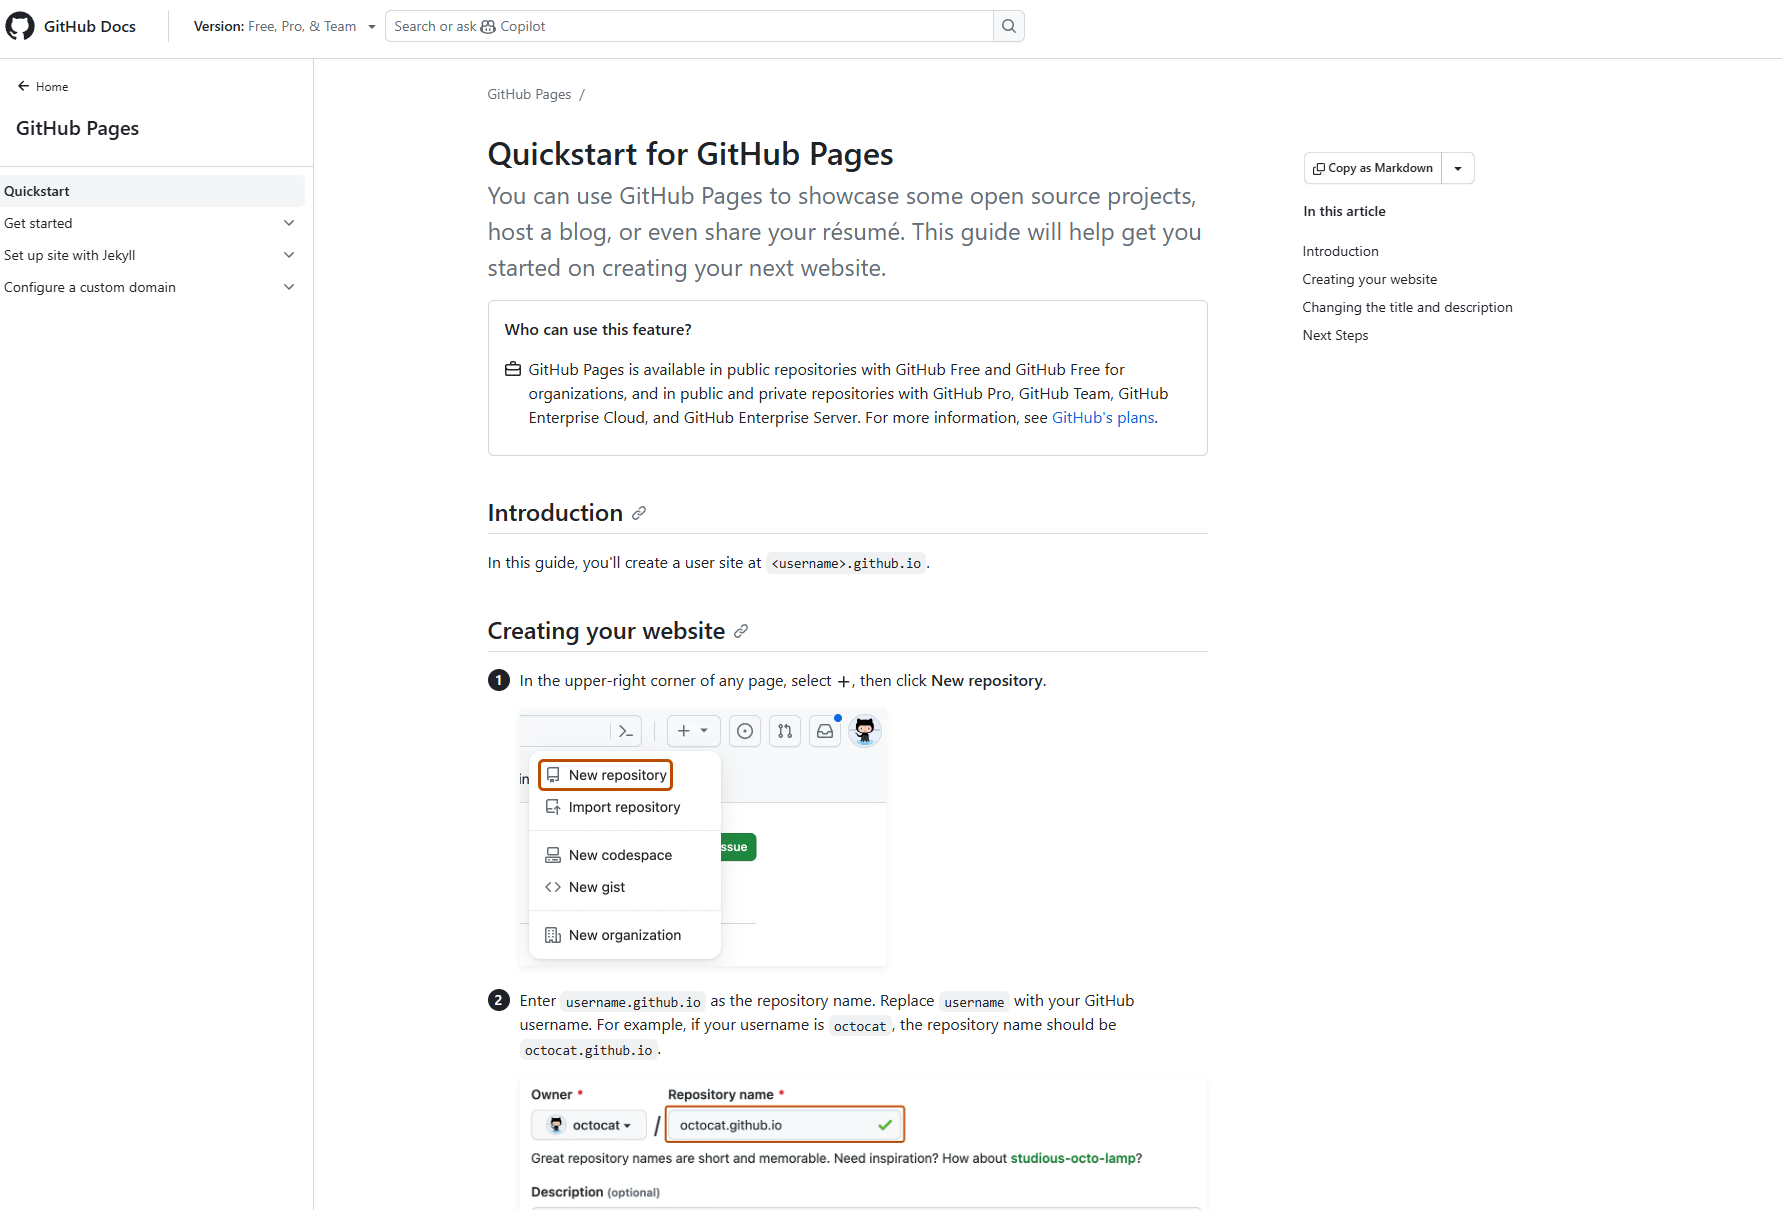
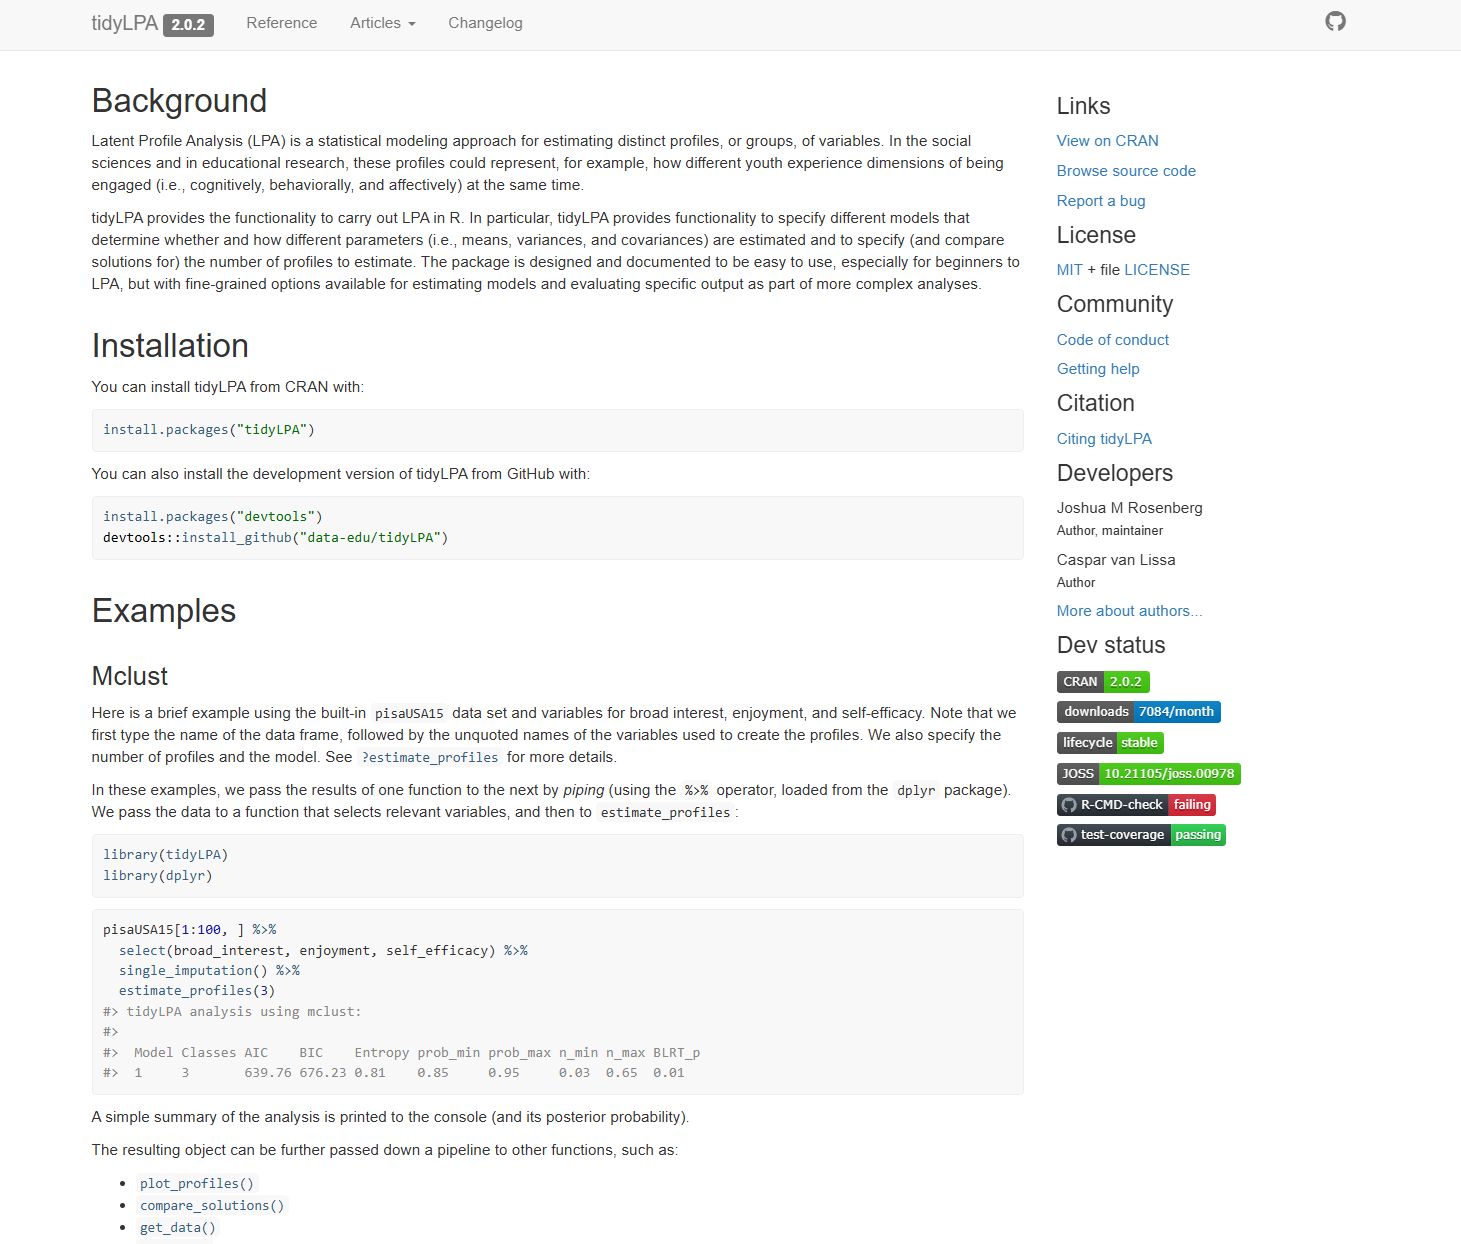
Harmonize chapter 7 tone, refine terminology, and update chapter 9 publishing example

diff --git a/docs/chapter-9.html b/docs/chapter-9.html
@@ -673,12 +673,13 @@ genai-policy-analysis/
 </section>
 <section id="publishing-and-sharing" class="level3">
 <h3 class="anchored" data-anchor-id="publishing-and-sharing">9.4.7 Publishing and Sharing</h3>
-<p>Once rendered, the Quarto project can be published via GitHub Pages by hosting the repository on GitHub (https://github.com/). This process produces a stable, shareable URL that can be cited in manuscripts, course syllabi, or presentations.</p>
-<p>Examples of publicly available Quarto projects can be found at:</p>
-<p>https://quarto.org/examples/</p>
+<p>To make this concrete, we use the public <code>data-edu/tidyLPA</code> repository as an example communication workflow <span class="citation" data-cites="Rosenberg2018tidyLPA">(<a href="#ref-Rosenberg2018tidyLPA" role="doc-biblioref">Rosenberg et al. 2018</a>)</span>:</p>
+<p><a href="https://github.com/data-edu/tidyLPA" class="uri">https://github.com/data-edu/tidyLPA</a></p>
+<p>In this workflow, the <strong>source layer</strong> is the GitHub repository (Quarto files, scripts, commit history, documentation), and the <strong>public layer</strong> is the rendered GitHub Pages site. Together, these two layers provide a stable, citable, and transparent communication artifact for computational educational research.</p>
+<p><a href="https://data-edu.github.io/tidyLPA" class="uri">https://data-edu.github.io/tidyLPA</a></p>
 <p><img src="data/ch9_images/github repo codes.png" class="img-fluid"></p>
 <p><img src="data/ch9_images/github page.png" class="img-fluid"></p>
-<p><em>Example of source repository and published GitHub Pages output.</em></p>
+<p><em>Example of the <code>data-edu/tidyLPA</code> source repository and its published GitHub Pages output.</em></p>
 </section>
 <section id="why-this-format-matters" class="level3">
 <h3 class="anchored" data-anchor-id="why-this-format-matters">9.4.8 Why This Format Matters</h3>
@@ -733,6 +734,9 @@ Gopen, George D., and Judith A. Swan. 1990. <span>“The Science of Scientific W
 </div>
 <div id="ref-Nosek2015OpenScience" class="csl-entry" role="listitem">
 Nosek, Brian A., George Alter, George C. Banks, et al. 2015. <span>“Promoting an Open Research Culture.”</span> <em>Science</em> 348 (6242): 1422–25.
+</div>
+<div id="ref-Rosenberg2018tidyLPA" class="csl-entry" role="listitem">
+Rosenberg, Joshua M., Patrick N. Beymer, Daniel J. Anderson, Caspar J. van Lissa, and Jennifer A. Schmidt. 2018. <span>“tidyLPA: An <span>R</span> Package to Easily Carry Out Latent Profile Analysis (<span>LPA</span>) Using Open-Source or Commercial Software.”</span> <em>Journal of Open Source Software</em> 3 (30): 978. <a href="https://doi.org/10.21105/joss.00978">https://doi.org/10.21105/joss.00978</a>.
 </div>
 <div id="ref-Wilke2019DataViz" class="csl-entry" role="listitem">
 Wilke, Claus O. 2019. <em>Fundamentals of Data Visualization</em>. O’Reilly Media. <a href="https://clauswilke.com/dataviz/">https://clauswilke.com/dataviz/</a>.

diff --git a/docs/chapter-1-1.html b/docs/chapter-1-1.html
@@ -494,7 +494,7 @@ pre > code.sourceCode > span > a:first-child::before { text-decoration: underlin
 <p>You need an environment for writing and running R code. We’re going to focus on <strong>Positron</strong>, Posit’s newer IDE built on the foundation of VS Code. If you’re already comfortable with RStudio, everything in this chapter applies there too. The fundamental concepts are identical, and the R code in this book works the same way in both.</p>
 <section id="why-positron" class="level2">
 <h2 class="anchored" data-anchor-id="why-positron">Why Positron?</h2>
-<p>Positron represents where computational social science workflows are heading: multi-language support (R and Python in the same environment), modern editor features inherited from VS Code, and a more extensible architecture (i.e., plugins and extension). If you’re coming from VS Code, Positron will feel immediately familiar. If you’re new to both, you’re learning a tool that’s designed for the future of data science.</p>
+<p>Positron represents where computational educational research workflows are heading: multi-language support (R and Python in the same environment), modern editor features inherited from VS Code, and a more extensible architecture (i.e., plugins and extension). If you’re coming from VS Code, Positron will feel immediately familiar. If you’re new to both, you’re learning a tool that’s designed for the future of data science.</p>
 <p>That said, <strong>RStudio remains great</strong>. It’s mature, widely documented, and has a loyal community. Some researchers prefer its more opinionated interface. Everything you need is visible and organized for R-first workflows. If you’re already using RStudio and prefer it, nothing in this book requires switching.</p>
 <p>The instructions below work in both environments unless otherwise noted. When we say “Positron,” assume the same applies to RStudio.</p>
 </section>
@@ -651,7 +651,7 @@ pre > code.sourceCode > span > a:first-child::before { text-decoration: underlin
 </section>
 <section id="version-control-with-git-and-github" class="level2">
 <h2 class="anchored" data-anchor-id="version-control-with-git-and-github">Version Control with Git and GitHub</h2>
-<p>Git is how computational social scientists version, share, and collaborate on their work. GitHub is the most popular platform for hosting Git repositories. If you’ve never used version control before, this section will get you set up with a workflow that integrates directly into your IDE.</p>
+<p>Git is how computational educational researchers version, share, and collaborate on their work. GitHub is the most popular platform for hosting Git repositories. If you’ve never used version control before, this section will get you set up with a workflow that integrates directly into your IDE.</p>
 <section id="why-git-matters" class="level3">
 <h3 class="anchored" data-anchor-id="why-git-matters">Why Git Matters</h3>
 <p>Without version control, you end up with files like <code>analysis_final.R</code>, <code>analysis_final2.R</code>, <code>analysis_ACTUALLY_final.R</code>. Git tracks every change you make, so you can:</p>
@@ -661,7 +661,7 @@ pre > code.sourceCode > span > a:first-child::before { text-decoration: underlin
 <li>Collaborate with others without emailing files back and forth</li>
 <li>Share your work publicly for transparency and reproducibility</li>
 </ul>
-<p>Most computational social science projects live in Git repositories, and employers expect researchers to be comfortable with basic version control.</p>
+<p>Most computational educational research projects live in Git repositories, and employers expect researchers to be comfortable with basic version control.</p>
 </section>
 <section id="git-integration" class="level3">
 <h3 class="anchored" data-anchor-id="git-integration">Git Integration</h3>

diff --git a/docs/chapter-1-3.html b/docs/chapter-1-3.html
@@ -495,7 +495,7 @@ pre > code.sourceCode > span > a:first-child::before { text-decoration: underlin
 
 <p>The tidyverse is a collection of R packages designed for data science with a shared philosophy: code should be readable, consistent, and focused on the data transformations you’re actually trying to accomplish. If you’ve struggled with base R’s sometimes cryptic syntax, the tidyverse may feel like a relief.</p>
 <!-- JR: I think we need to cite the book introducing tidyverse (Wickham's book - R for Data Science) -->
-<p>Most computational social science workflows rely on tidyverse packages for data manipulation, visualization, and modeling. Learning this ecosystem means learning the tools your collaborators use, the examples you’ll find online, and the approaches that scale from quick exploration to publication-ready analysis.</p>
+<p>Most computational educational research workflows rely on tidyverse packages for data manipulation, visualization, and modeling. Learning this ecosystem means learning the tools your collaborators use, the examples you’ll find online, and the approaches that scale from quick exploration to publication-ready analysis.</p>
 <section id="whats-in-the-tidyverse" class="level2">
 <h2 class="anchored" data-anchor-id="whats-in-the-tidyverse">What’s in the Tidyverse?</h2>
 <p>The tidyverse is actually a meta-package that loads eight core packages when you run <code>library(tidyverse)</code>:</p>
@@ -535,7 +535,7 @@ pre > code.sourceCode > span > a:first-child::before { text-decoration: underlin
 <span id="cb3-5"><a href="#cb3-5" aria-hidden="true" tabindex="-1"></a><span class="fu">glimpse</span>(students)</span></code></pre></div><button title="Copy to Clipboard" class="code-copy-button"><i class="bi"></i></button></div>
 </div>
 <p>The <code>glimpse()</code> function shows you the structure of your data: how many rows and columns, what type each column is (character, numeric, etc.), and the first few values. This dataset contains information about students (gender, age, region, disability status) along with their course performance (final_result, pass status, mean_weighted_score).</p>
-<p>This is the dataset we’ll use in the examples below. It represents the kind of educational data you’ll work with in computational social science: thousands of observations with both categorical and continuous variables.</p>
+<p>This is the dataset we’ll use in the examples below. It represents the kind of educational data you’ll work with in computational educational research: thousands of observations with both categorical and continuous variables.</p>
 </section>
 <section id="essential-dplyr-functions" class="level2">
 <h2 class="anchored" data-anchor-id="essential-dplyr-functions">Essential dplyr Functions</h2>

diff --git a/docs/chapter-2.html b/docs/chapter-2.html
@@ -808,7 +808,7 @@ Starting from a specific row (e.g., row 7), loop over each row. For each row:
 </section>
 <section id="survey-discussions-etc." class="level3">
 <h3 class="anchored" data-anchor-id="survey-discussions-etc.">2.2.4 Survey, Discussions, etc.</h3>
-<p>Surveys and discussion posts are valuable sources of text data in social science research, providing insights into participants’ perspectives, opinions, and experiences. These data sources often come from open-ended survey responses, online discussion boards, or educational platforms. Extracting and preparing text data from these sources can reveal recurring themes, sentiment, and other patterns that support both quantitative and qualitative analysis. Below are key steps and code examples for processing text data from surveys and discussions in R.</p>
+<p>Surveys and discussion posts are valuable sources of text data in educational research, providing insights into participants’ perspectives, opinions, and experiences. These data sources often come from open-ended survey responses, online discussion boards, or educational platforms. Extracting and preparing text data from these sources can reveal recurring themes, sentiment, and other patterns that support both quantitative and qualitative analysis. Below are key steps and code examples for processing text data from surveys and discussions in R.</p>
 <section id="key-steps-for-processing-survey-and-discussion-text-data" class="level4">
 <h4 class="anchored" data-anchor-id="key-steps-for-processing-survey-and-discussion-text-data">Key Steps for Processing Survey and Discussion Text Data</h4>
 <ol type="1">
@@ -879,7 +879,7 @@ If further analysis is needed, such as frequency-based analysis, split the text 
 </section>
 <section id="methods-for-analyzing-text-data" class="level2">
 <h2 class="anchored" data-anchor-id="methods-for-analyzing-text-data">2.3 Methods for Analyzing Text Data</h2>
-<p>In the following section, we will provide a “recipe” for the social scientist interested in these new methods of analyzing text data to get you from the initial stages of getting the data to running the analyses and the write up. Often left out is also a research question that suits or requires a method. Since we have a data and method-centric approach here, we will backtrack and also provide a research question, so that you can model after it in your own work. Finally, we will provide a sample results and discussions section.</p>
+<p>In the following section, we will provide a “recipe” for the educational researcher interested in these new methods of analyzing text data to get you from the initial stages of getting the data to running the analyses and the write up. Often left out is also a research question that suits or requires a method. Since we have a data and method-centric approach here, we will backtrack and also provide a research question, so that you can model after it in your own work. Finally, we will provide a sample results and discussions section.</p>
 <section id="frequency-based-analysis" class="level3">
 <h3 class="anchored" data-anchor-id="frequency-based-analysis">2.3.1 Frequency-Based Analysis</h3>
 <p>The purpose of the frequency-based approach is to count the number of words as they appear in a text file, whether it is a collection of tweets, documents, or interview transcripts. This approach aligns with the frequency-coding method (e.g., Saldaña ,2021) and can supplement human coding by revealing the most/least commonly occurring words, which can then be compared across dependent variables.</p>

diff --git a/docs/index.html b/docs/index.html
@@ -7,7 +7,7 @@
 <meta name="viewport" content="width=device-width, initial-scale=1.0, user-scalable=yes">
 
 <meta name="author" content="Wei Wang, Mete Akcaoglu, Joshua Rosenberg, Shaun Kellogg">
-<meta name="dcterms.date" content="2026-04-23">
+<meta name="dcterms.date" content="2026-04-24">
 
 <title>Computational Analysis of Educational Data: A Field Guide Using R</title>
 <style>
@@ -459,7 +459,7 @@ div.csl-indent {
     <div>
     <div class="quarto-title-meta-heading">Published</div>
     <div class="quarto-title-meta-contents">
-      <p class="date">April 23, 2026</p>
+      <p class="date">April 24, 2026</p>
     </div>
   </div>
   

diff --git a/docs/chapter-3.html b/docs/chapter-3.html
@@ -524,7 +524,7 @@ div.csl-indent {
 <p>Social Network Analysis (SNA) relies on relational data—information about <strong>connections</strong> (edges) between entities (nodes) such as students, teachers, or organizations. Compared to traditional survey or tabular data, SNA requires <strong>pairwise relational information</strong>. In education, this could include “who collaborates with whom,” “who talks to whom,” or digital traces of discussion and collaboration in online platforms.</p>
 <section id="types-and-sources-of-sna-data" class="level3">
 <h3 class="anchored" data-anchor-id="types-and-sources-of-sna-data">3.2.1 Types and Sources of SNA Data</h3>
-<p>There are several common sources and structures for SNA data in educational and social science contexts:</p>
+<p>There are several common sources and structures for SNA data in educational research contexts:</p>
 <ul>
 <li><strong>Survey-based Network Data</strong>: Collected via roster or name generator questions, e.g., “List the classmates you discuss assignments with.”</li>
 <li><strong>Behavioral/Observational Data</strong>: Derived from logs of actual interactions, e.g., forum replies, emails, classroom seating.</li>

diff --git a/docs/conclusion.html b/docs/conclusion.html
@@ -442,7 +442,7 @@ ul.task-list li input[type="checkbox"] {
 <p>From there, we worked through a field-guide approach to computational analysis in education. Rather than treating methods as abstract techniques, each chapter focused on concrete research workflows: what data to collect, how to prepare it, what questions are reasonable to ask, how to analyze it in R, and how to write up methods and results in ways that others can follow.</p>
 <section id="what-this-book-contributes" class="level2">
 <h2 class="anchored" data-anchor-id="what-this-book-contributes">What this book contributes</h2>
-<p>We see this guide as offering four connected contributions for educational and social science researchers.</p>
+<p>We see this guide as offering four connected contributions for educational researchers.</p>
 <p>First, we aimed to provide an accessible on-ramp to computational work in R , with enough structure for beginners while still supporting applied research.</p>
 <p>Second, we showed how different computational methods answer different kinds of questions. Text methods help us identify themes and language patterns; network methods illuminate relationships and structures; numeric modeling supports prediction and explanation at scale.</p>
 <p>Third, it situates large language models (LLMs) as part of computational research practice. We introduced cloud and local pathways, then demonstrated local LLM workflows for both text and image analysis. The aim was not to present LLMs as a universal solution, but to show when and how they can be integrated responsibly.</p>